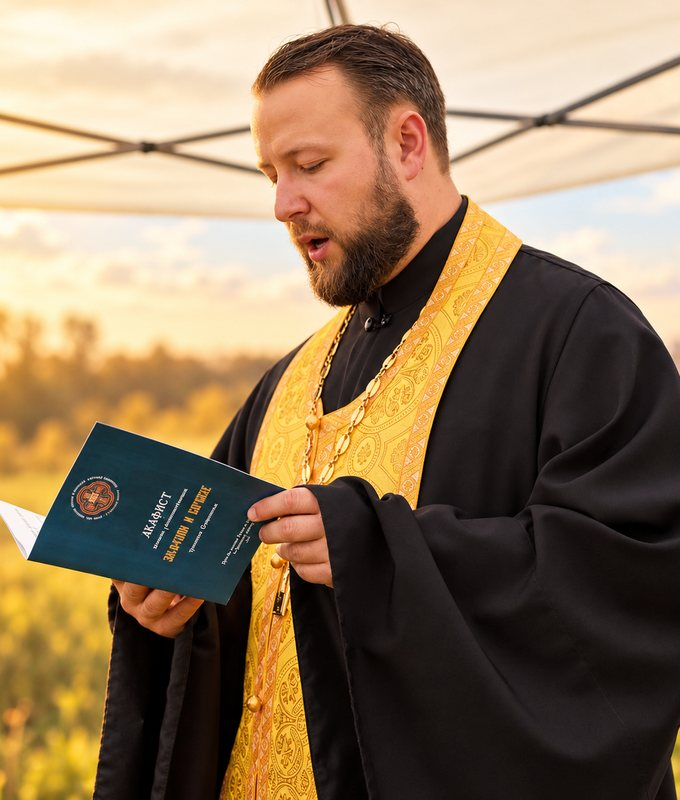
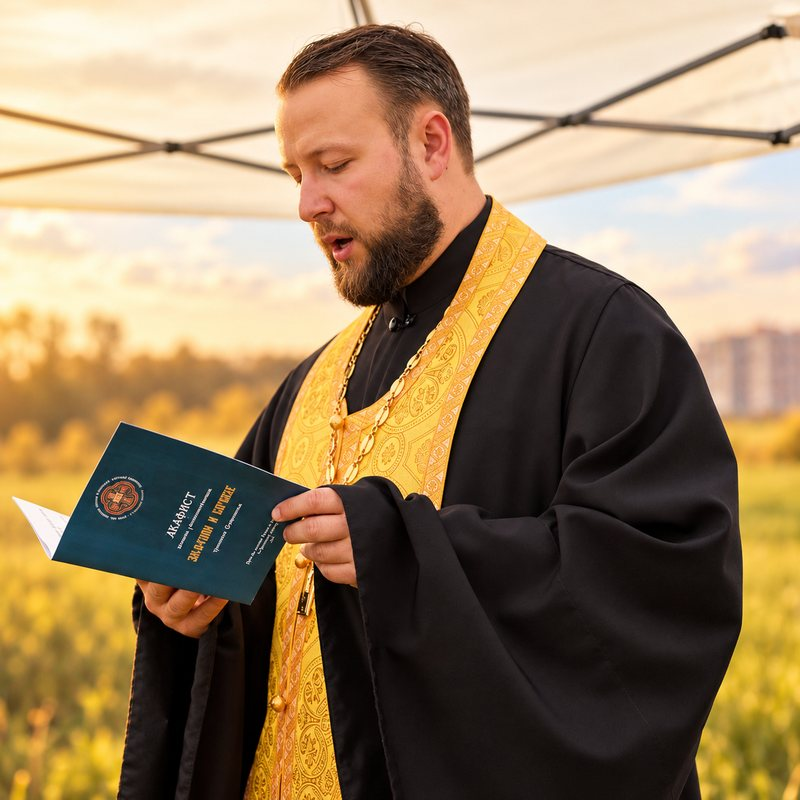
Rector's photo in a rounded square instead of the arch
Claude-Session: https://claude.ai/code/session_017vNFJLKPKdVqLUhWLdhHgr

diff --git a/docs/assets/css/styles.css b/docs/assets/css/styles.css
@@ -375,9 +375,8 @@ p { margin: 0; }
 .questions__copy h2 { font-size: var(--fs-h2); }
 .questions__art { margin: 0; justify-self: center; width: min(100%, 340px); aspect-ratio: 34 / 40; border-radius: 170px 170px 0 0; overflow: hidden; background: #E9D9BA; box-shadow: inset 0 0 0 8px #E9D9BA, inset 0 0 0 9px rgba(167,131,69,.6); display: flex; align-items: flex-end; padding: 30px 22px 0; }
 .questions__art img { width: 100%; height: auto; }
-.questions__art--photo { position: relative; padding: 0; background: #1E2430; box-shadow: 0 18px 40px rgba(0,0,0,.25); }
-.questions__art--photo img { width: 100%; height: 100%; object-fit: cover; object-position: 50% 30%; }
-.questions__art--photo::after { content: ""; position: absolute; inset: 8px; border: 1px solid rgba(234,211,162,.75); border-radius: 162px 162px 0 0; pointer-events: none; }
+.questions__art--photo { position: relative; padding: 0; aspect-ratio: 1 / 1; width: min(100%, 360px); border-radius: 14px; background: #1E2430; box-shadow: 0 18px 40px rgba(0,0,0,.25); }
+.questions__art--photo img { width: 100%; height: 100%; object-fit: cover; }
 .q-form { display: flex; flex-direction: column; gap: 14px; }
 .q-form .field { color: var(--on-dark-muted); }
 .q-form .field input, .q-form .field select, .q-form .field textarea { background: rgba(255,255,255,.04); border: 1px solid rgba(243,235,221,.35); color: var(--on-dark); font: inherit; font-size: 1rem; padding: 12px 14px; border-radius: 8px; }

diff --git a/docs/index.html b/docs/index.html
@@ -395,7 +395,7 @@
       <a class="link-arrow link-arrow--light" href="#" data-soon>Читать ответы <svg aria-hidden="true"><use href="#i-arrow"/></svg></a>
     </div>
     <figure class="questions__art questions__art--photo">
-      <img src="assets/img/rector.jpg" width="680" height="800" alt="Настоятель храма читает акафист под открытым небом на Пулковских высотах" loading="lazy">
+      <img src="assets/img/rector.jpg" width="800" height="800" alt="Настоятель храма читает акафист под открытым небом на Пулковских высотах" loading="lazy">
     </figure>
     <form class="q-form" data-q-form novalidate>
       <label class="field" for="q-topic">Тема
